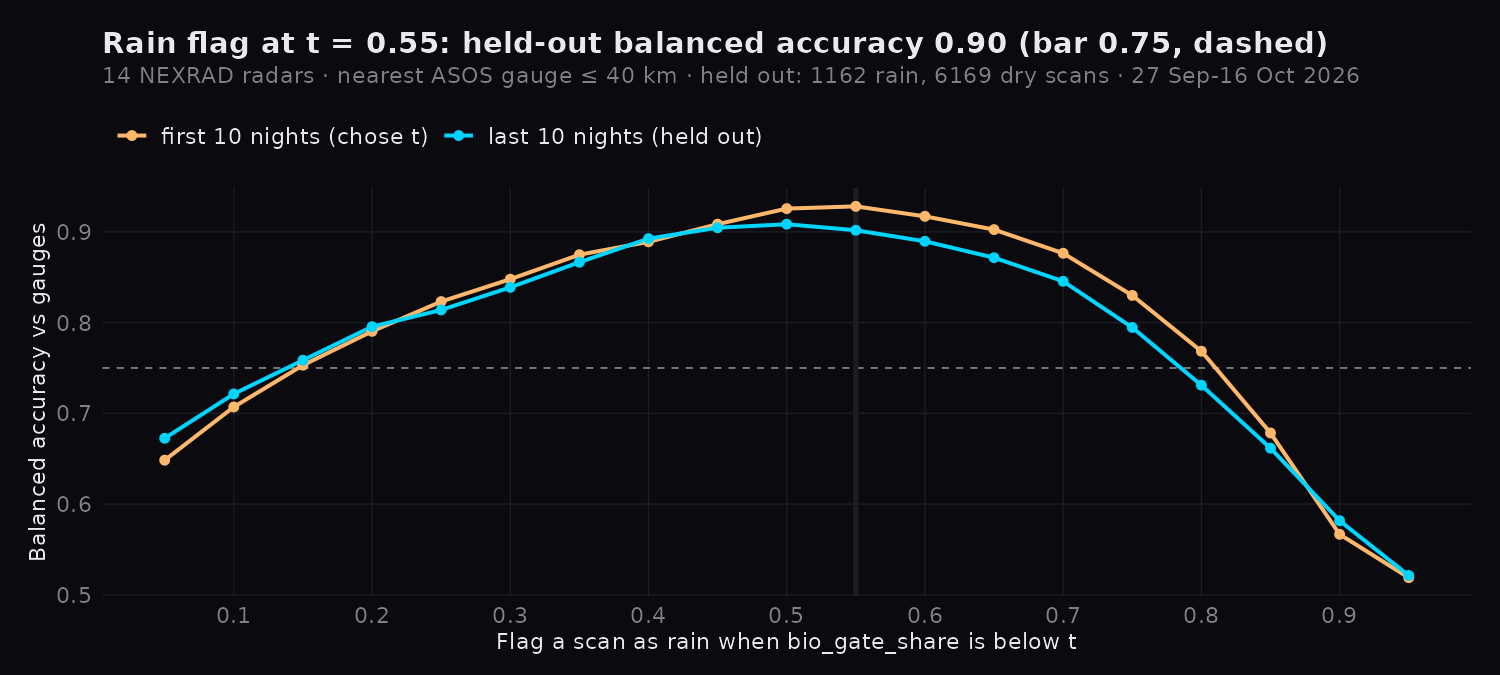
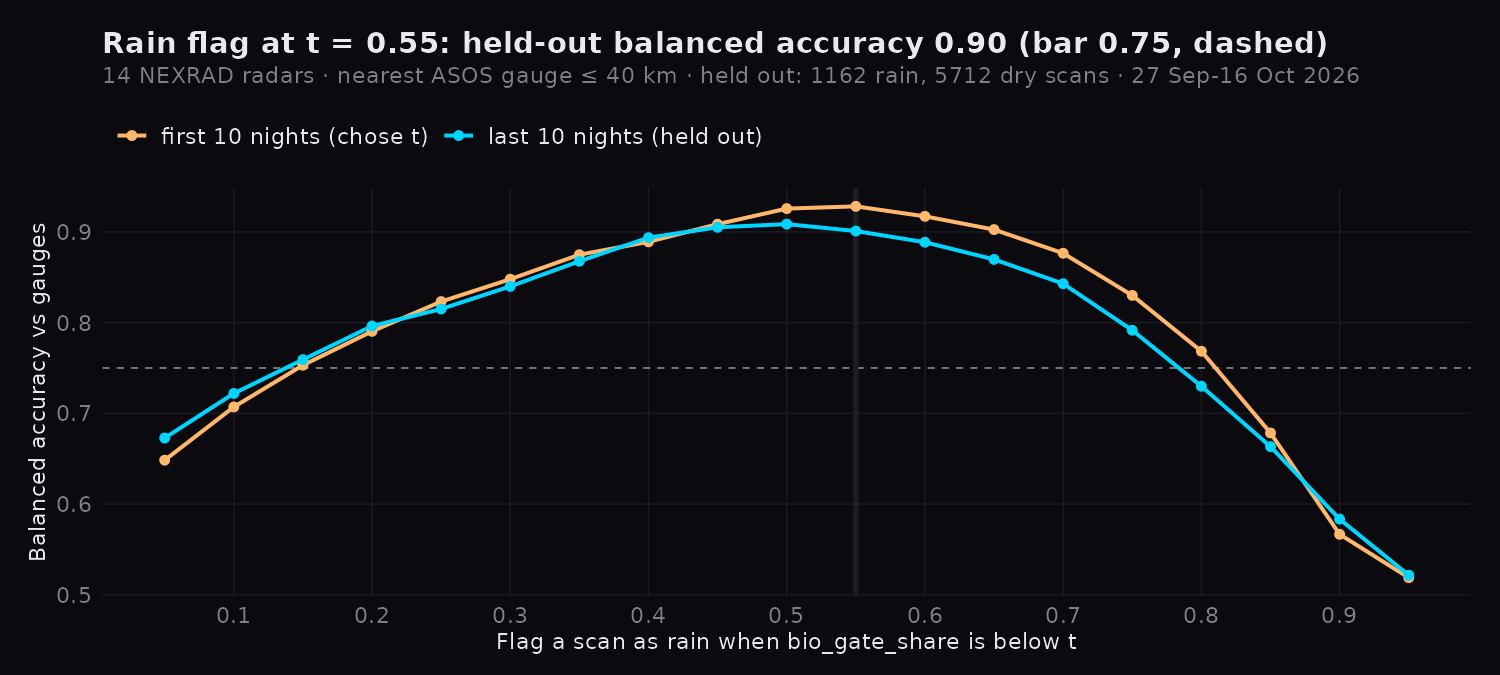
fix: a dry night needs a report in every hourly slot of the window, not floor(hours) of them (#104 review)

diff --git a/pipeline/rain_check.py b/pipeline/rain_check.py
@@ -8,6 +8,7 @@ flagged). t is the grid value with the best balanced accuracy on the first ten n
 ten; the flag ships if held-out balanced accuracy >= 0.75 with >= 30 scans of each label."""
 from __future__ import annotations
 import argparse
+import collections
 import csv
 import datetime as dt
 import io
@@ -52,10 +53,22 @@ def label(scan: dt.datetime, reports: list[tuple[dt.datetime, float | str | None
     lo, hi = sunset - NIGHT_PAD, sunrise + NIGHT_PAD
     night = [(t, v) for t, v in reports if lo <= t <= hi]
     hours = {t.replace(minute=0) for t, v in night if v is not None}
-    want = math.floor((hi - lo).total_seconds() / 3600)
-    if len(hours) >= want and all(v == 0.0 for _, v in night if v is not None):
+    if hourly_slots(reports, lo, hi) <= hours and all(v == 0.0 for _, v in night if v is not None):
         return "dry"
     return None
+
+def hourly_slots(reports: list[tuple[dt.datetime, float | str | None]], lo: dt.datetime, hi: dt.datetime) -> set:
+    """The clock hours whose routine report falls in [lo, hi]. The station reports once an hour at its own minute
+    (the commonest minute among its reports), so an off-the-hour window can hold one slot more than its length."""
+    if not reports:
+        return {lo.replace(minute=0, second=0, microsecond=0)}        # nothing reported: never fully reported
+    minute = collections.Counter(t.minute for t, _ in reports).most_common(1)[0][0]
+    out, h = set(), lo.replace(minute=0, second=0, microsecond=0)
+    while h <= hi:
+        if lo <= h + dt.timedelta(minutes=minute) <= hi:
+            out.add(h)
+        h += dt.timedelta(hours=1)
+    return out
 
 def balanced_accuracy(scans: list[tuple[float, str]], t: float) -> float | None:
     rain = [s for s, lab in scans if lab == "rain"]

diff --git a/pipeline/tests/test_rain_check.py b/pipeline/tests/test_rain_check.py
@@ -39,6 +39,14 @@ def test_label_rain_within_an_hour_dry_only_on_a_fully_reported_dry_night():
     assert label(scan, [(t, "T" if i == 3 else v) for i, (t, v) in enumerate(dry)], ss, sr) is None   # a trace
     assert label(scan, [(t, None if i == 8 else v) for i, (t, v) in enumerate(dry)], ss, sr) is None  # a missing hour
     assert label(scan, dry[:8] + dry[9:], ss, sr) is None                                             # an absent hour
+    # review of #104: sunset/sunrise are off the hour, so the window can hold one slot more than its length in
+    # hours; 19:45-10:55 holds the 16 reports 19:51-10:51, and any one absent is not a fully reported night
+    ss2, sr2 = dt.datetime(2026, 10, 1, 21, 45, tzinfo=U), dt.datetime(2026, 10, 2, 8, 55, tzinfo=U)
+    assert label(scan, dry, ss2, sr2) == "dry"
+    assert label(scan, dry[:8] + dry[9:], ss2, sr2) is None                                           # interior slot
+    assert label(scan, dry[:1] + dry[2:], ss2, sr2) is None                                           # first slot, 19:51
+    assert label(scan, dry[:16], ss2, sr2) is None                                                    # last slot, 10:51
+    assert label(scan, [], ss2, sr2) is None                                                          # a silent gauge
 
 def test_balanced_accuracy_and_the_threshold_choice():
     scans = [(0.01, "rain"), (0.2, "rain"), (0.6, "rain"), (0.7, "dry"), (0.8, "dry"), (0.15, "dry")]

diff --git a/docs/analysis/bird-rain.md b/docs/analysis/bird-rain.md
@@ -10,7 +10,8 @@ below which the globe marks a scan as unreliable, against airport rain gauges. R
 - **Scans.** Every stored scan of the 14 radars in the adjacent-radar store, nights 27 Sep – 16 Oct 2026.
 - **Gauge.** The nearest IEM ASOS station within 40 km of the radar; hourly METAR `p01i`.
 - **Labels.** Rain: a report of ≥ 0.01 in within 60 min of the scan. Dry: the gauge reported nothing at all, not even
-  a trace, in every hour from sunset − 2 h to sunrise + 2 h. Everything else is left out.
+  a trace, in every hourly slot from sunset − 2 h to sunrise + 2 h (the station's own report minute). Everything else
+  is left out.
 - **Threshold.** Flag when share < t; t is the grid value (0.05–0.95) with the best balanced accuracy on the first ten
   nights, scored once on the last ten. Ships if held-out balanced accuracy ≥ 0.75 with ≥ 30 scans of each label.
 
@@ -18,21 +19,23 @@ below which the globe marks a scan as unreliable, against airport rain gauges. R
 
 ![threshold curve](bird_rain.png)
 
-Held out: balanced accuracy **0.90**; 89.5 % of 1,162 rain scans flagged, 9.1 % of 6,169 dry scans flagged.
+Held out: balanced accuracy **0.90**; 89.5 % of 1,162 rain scans flagged, 9.3 % of 5,712 dry scans flagged.
+(First version counted a night as fully reported with one hourly report missing; fixed in review, 457 held-out
+dry scans dropped, threshold and verdict unchanged.)
 
 | radar | gauge | rain scans | flagged | dry scans | flagged |
 |---|---|---|---|---|---|
 | KAKQ | AKQ 0 km | 107 | 0.64 | 1126 | 0.02 |
 | KBOX | 1B9 7 km | 62 | 0.95 | 759 | 0.23 |
 | KCLE | CLE 1 km | 210 | 0.93 | 825 | 0.00 |
-| KCLX | 3J1 18 km | 99 | 1.00 | 1278 | 0.11 |
+| KCLX | 3J1 18 km | 99 | 1.00 | 974 | 0.12 |
 | KDIX | MJX 10 km | 260 | 0.90 | 827 | 0.03 |
 | KJAX | JAX 2 km | 302 | 0.84 | 611 | 0.02 |
 | KLTX | SUT 33 km | 106 | 1.00 | 1200 | 0.21 |
 | KLWX | IAD 5 km | 201 | 0.86 | 826 | 0.02 |
 | KMHX | NKT 14 km | 77 | 0.99 | 1188 | 0.04 |
 | KMLB | MLB 1 km | 247 | 0.96 | 817 | 0.17 |
-| KOKX | HWV 5 km | 185 | 1.00 | 153 | 0.01 |
+| KOKX | HWV 5 km | 185 | 1.00 | 0 | – |
 | KPBZ | PIT 5 km | 99 | 0.95 | 901 | 0.00 |
 | KRAX | JNX 17 km | 37 | 1.00 | 1200 | 0.01 |
 | KTBW | MCF 20 km | 134 | 0.71 | 894 | 0.03 |
